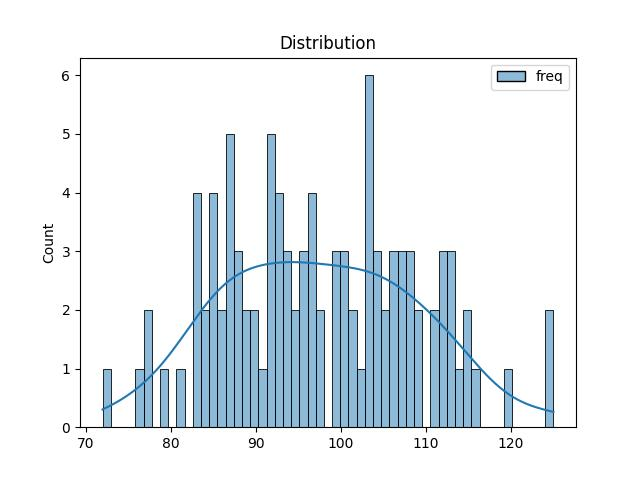
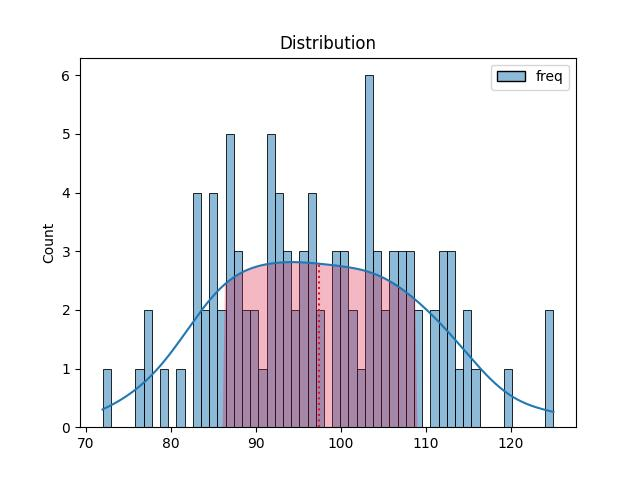
Draw mean and std to distribution plot

Changed region(s): [[0.3438, 0.5312, 0.6562, 0.9062]]

diff --git a/main.py b/main.py
@@ -7,6 +7,7 @@ import logging
 from datetime import date, datetime, time, timedelta
 from pathlib import Path
 from time import sleep
+import numpy as np
 
 import pandas as pd
 import seaborn as sns
@@ -161,7 +162,7 @@ if __name__ == '__main__':
 
     fig, ax = plt.subplots()
     sns.heatmap(heatmap_data, annot=True, fmt='d', cmap='RdYlGn', ax=ax)
-    ax.title.set_text('Detail')
+    ax.set_title('Detail')
     fig.savefig('images/heatmap.jpg')
 
     # Top 10 plot
@@ -173,7 +174,7 @@ if __name__ == '__main__':
     sns.barplot(bar_data, x='value', y='freq', ax=ax)
     for bar in ax.containers:
         ax.bar_label(bar, fmt='%d')
-    ax.title.set_text('Top 10')
+    ax.set_title('Top 10')
     fig.savefig('images/top-10.jpg')
 
     # Distribution
@@ -182,6 +183,11 @@ if __name__ == '__main__':
     bins = data.max()[0] - data.min()[0] + 2
 
     fig, ax = plt.subplots()
-    sns.histplot(data, kde=True, bins=bins, ax=ax)
-    ax.title.set_text('Distribution')
+    sns.histplot(data, kde=True, bins=bins, color='crimson', ax=ax)
+    kdeline = ax.lines[0]
+    xs = kdeline.get_xdata()
+    ys = kdeline.get_ydata()
+    ax.vlines(mean, 0, np.interp(mean, xs, ys), color='crimson', ls=':')
+    ax.fill_between(xs, 0, ys, where=(mean - std <= xs) & (xs <= mean + std), interpolate=True, facecolor='crimson', alpha=0.3)
+    ax.set_title('Distribution')
     fig.savefig('images/distribution.jpg')
